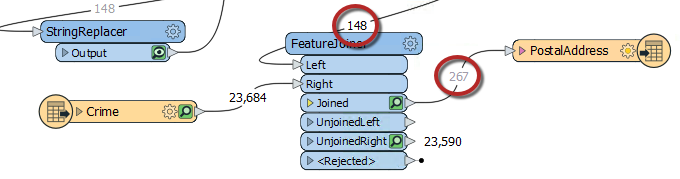
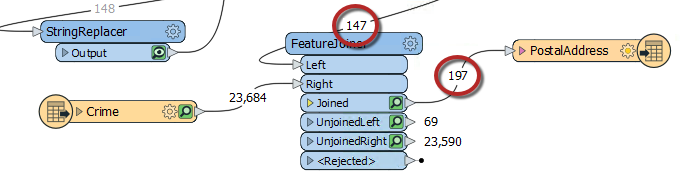
Fixed incorrect join mode and images

Changed region(s): [[0.5559, 0.6425, 0.6485, 0.7263], [0.6485, 0.3911, 0.7103, 0.4749], [0.4941, 0.1117, 0.5559, 0.1676]]

diff --git a/DesktopBasic4Transformers/4.Exercise4.md b/DesktopBasic4Transformers/4.Exercise4.md
@@ -182,7 +182,7 @@ Connect the FeatureJoiner:Joined output port to the PostalAddress writer feature
 
 Inspect the parameters for the FeatureJoiner.
 
-For the Join Mode select *Left*. This means that we want all of the addresses to be output, whether they match to a crime record or not.
+For the Join Mode select *Inner*. This means that we will only join features if there is a match in both streams, i.e. a crime at that address.
 
 In the Join On parameters select the JoinKey attribute for the Left value, and the Block attribute for the Right value.
 
@@ -192,11 +192,11 @@ Run that part of the workspace to see what the results of this translation are.
 
 
 <br>**8) Add a Aggregator Transformer**
-<br>Look at the FeatureJoiner to see the Joined feature counts. Interestingly, although 148 addresses enter the FeatureJoiner, 267 emerge from it:
+<br>Look at the FeatureJoiner to see the Joined feature counts. Interestingly, although 148 addresses enter the FeatureJoiner, 197 emerge from it:
 
 ![](./Images/Img4.235.Ex4.FeatureJoinerResults.png)
 
-That's because there are multiple crimes per block and there were 267 matches with the data.
+That's because there are multiple crimes per block and there were 197 matches with the data.
 
 We can aggregate that data together using an Aggregator transformer. So place an Aggregator transformer after the FeatureJoiner:Joined port
 
@@ -221,7 +221,7 @@ Now the Owners field is converted to compressed and encoded binary, that cannot 
 
 
 <br>**10) Write Data**
-<br>If you expand your attributes for the PostalAddress writer, you will notice that NumberCrimes doesn't appear. 
+<br>If you expand your attributes for the PostalAddress writer, you will notice that NumberCrimes doesn't appear.
 
 To fix this simply add a new attribute called NumberCrimes here. Give it the type "number" and cell width 6. The data from the Aggregator will now have its attribute on the writer:
 
